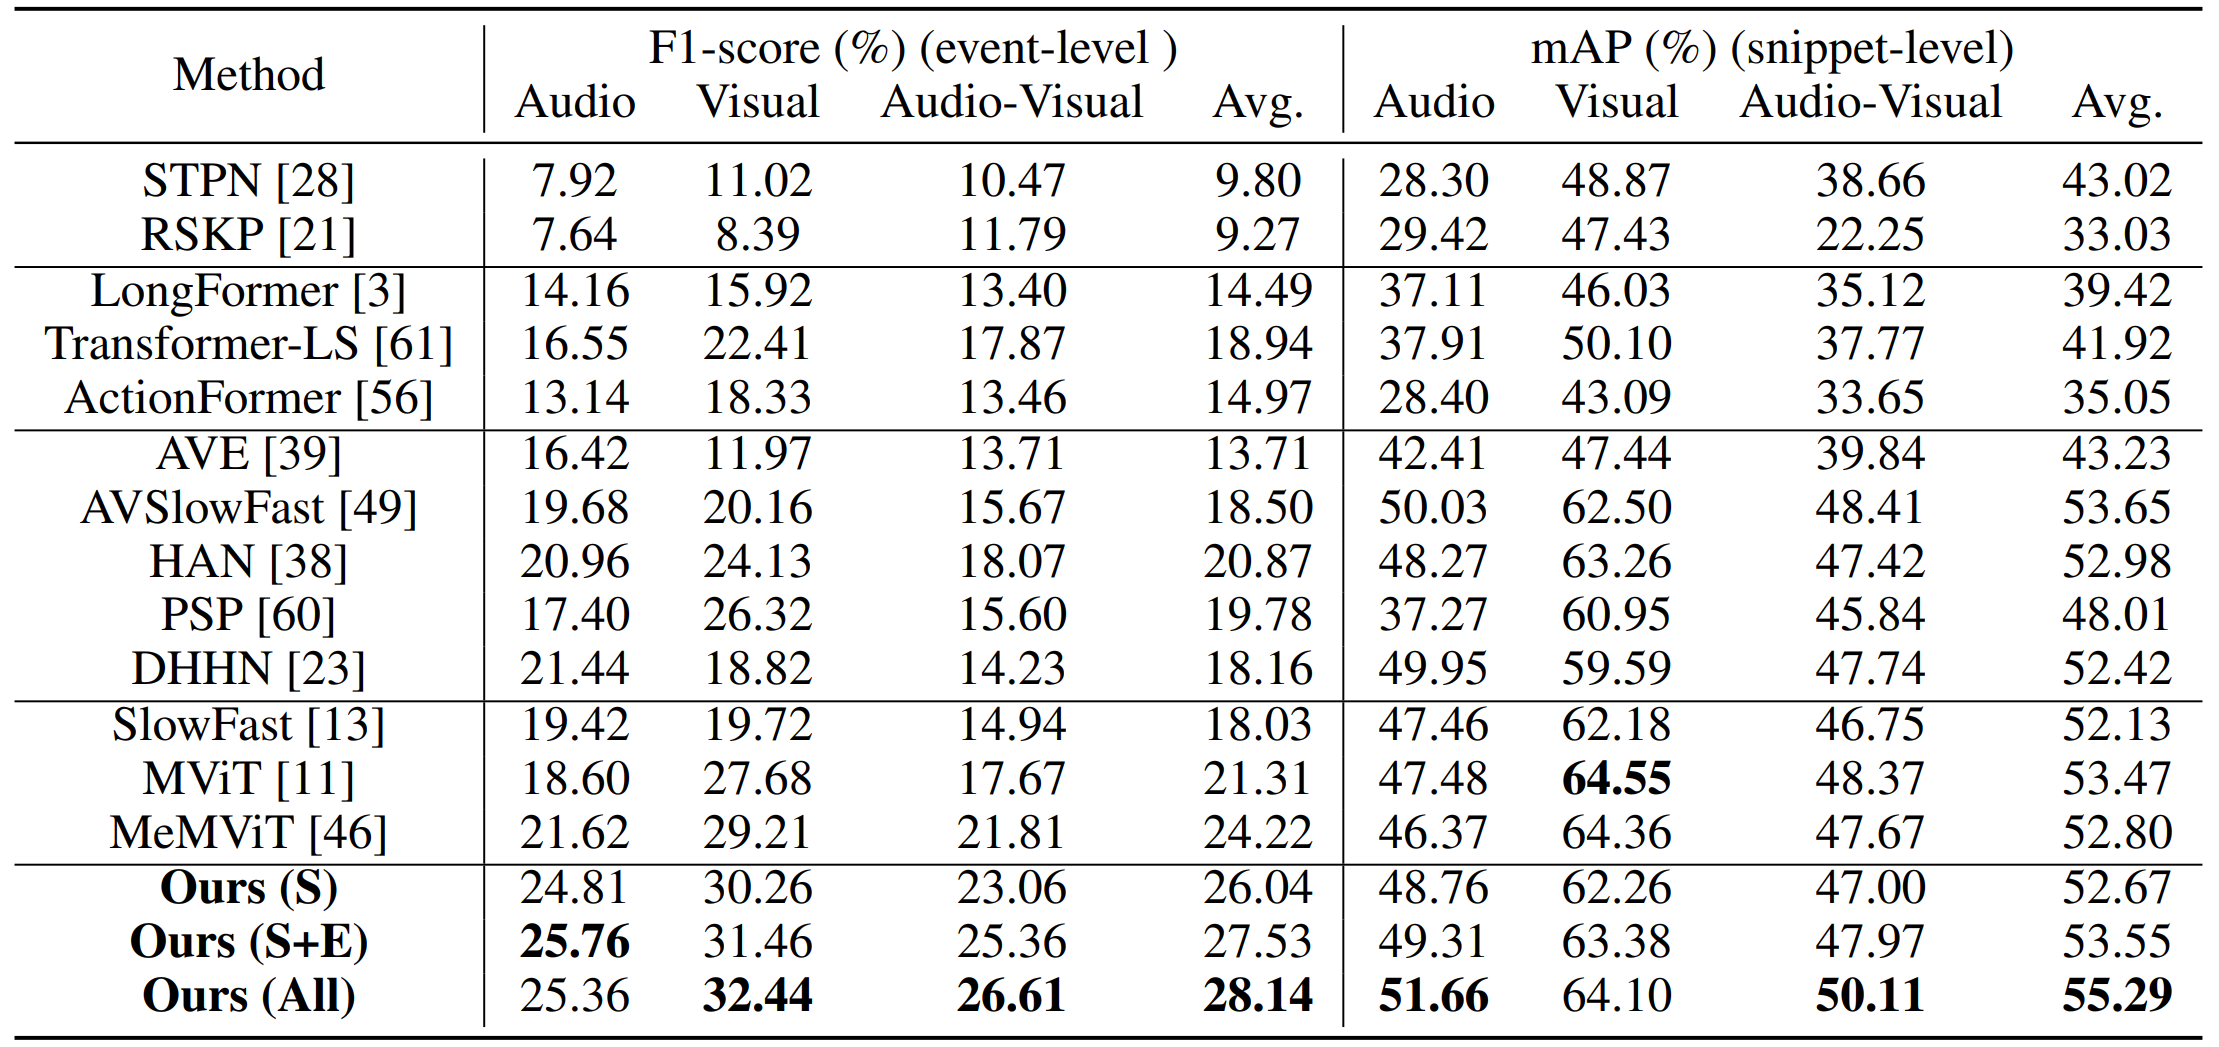
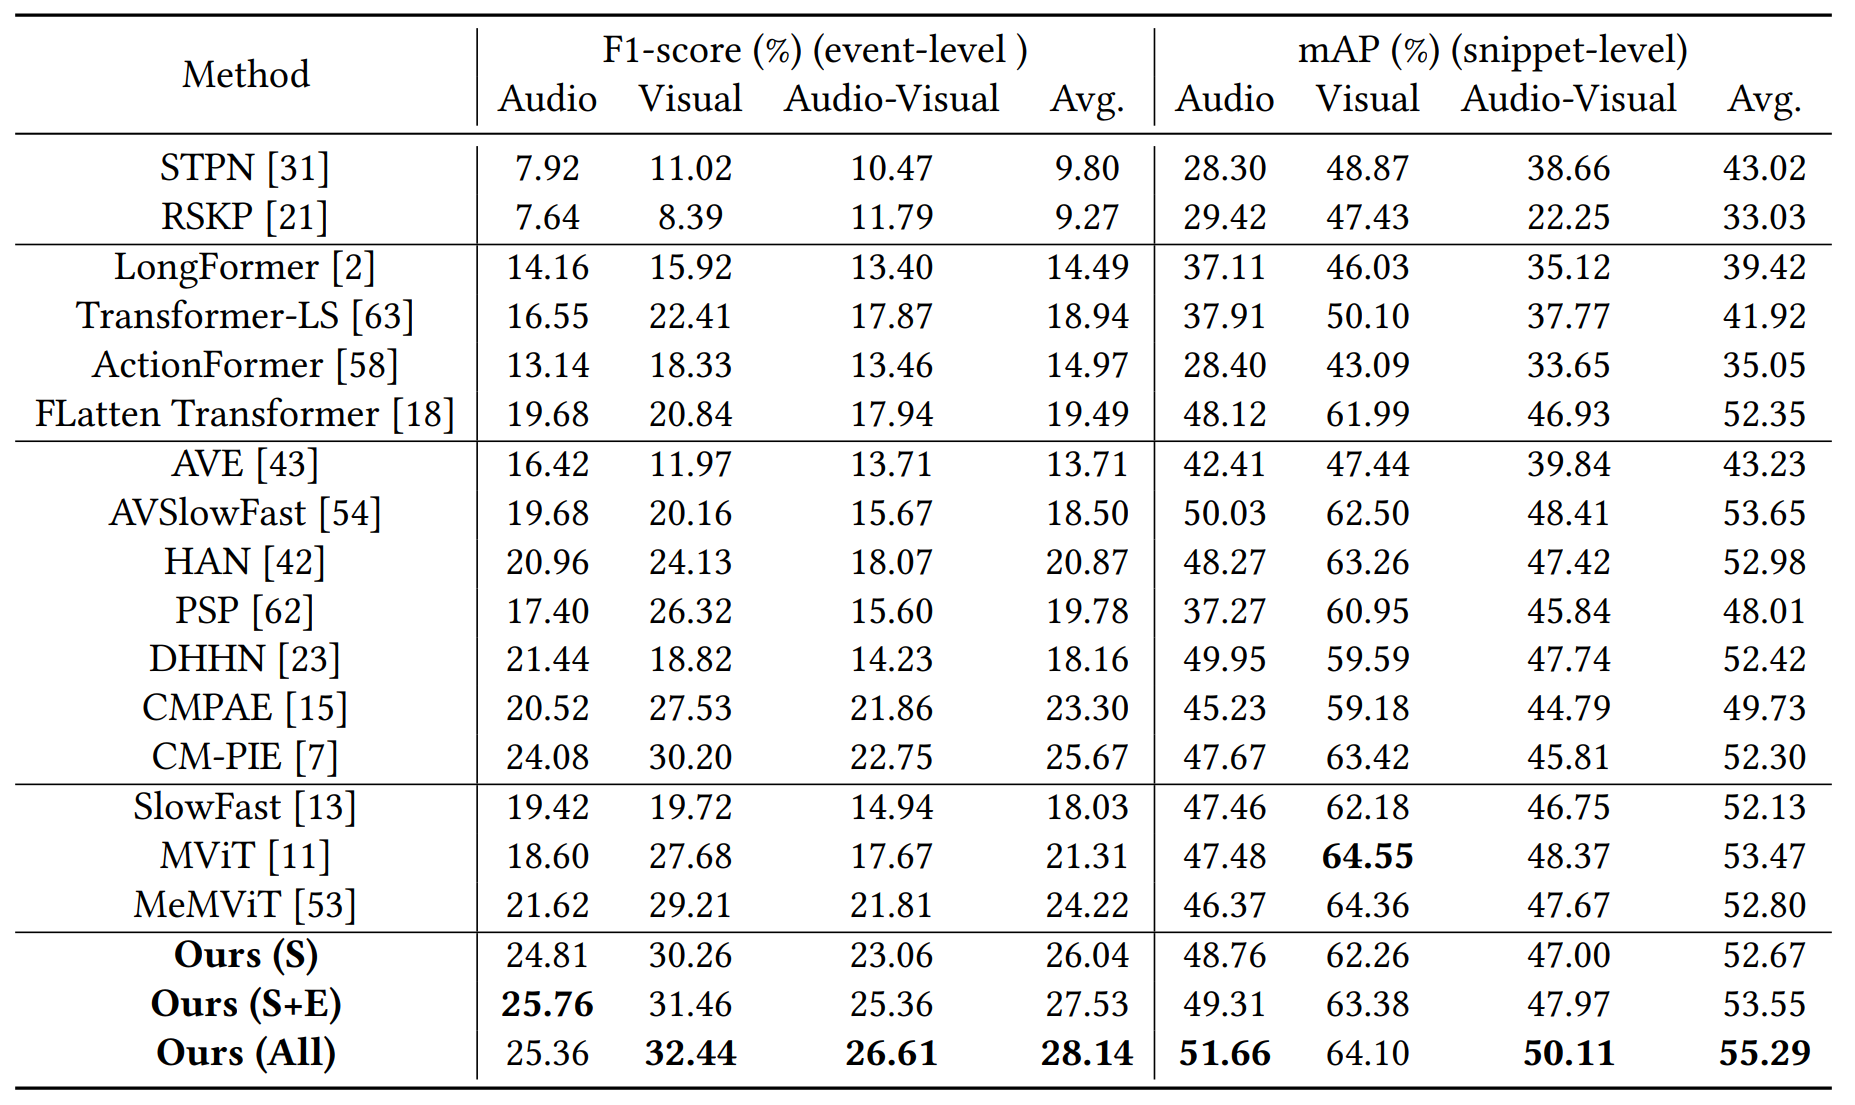
update main experiment table

Changed region(s): [[0.0, 0.0, 1.0, 1.0]]

diff --git a/index.html b/index.html
@@ -1397,25 +1397,17 @@ layout: default
     <div class="row">
       <div class="col-md-12">
         <p class="text-muted" style="text-align:left">
-          We propose an event-centric framework that contains three phases from snippet prediction, event extraction to event interaction.
-          Firstly, we propose a pyramid multimodal transformer model to capture the events with different temporal lengths, 
-          where the audio and visual snippet features are required to interact with each other within multi-scale temporal windows. 
-          Secondly, we propose to model the video as structured event graphs according to the snippet prediction, 
-          based on which we refine the event-aware snippet-level features and aggregate them into event features. 
-          At last, we study event relations by modeling the influence among multiple aggregated audio and visual events and then refining the event features. 
-          The three phases progressively achieve a comprehensive understanding of video content as well as event relations 
-          and are jointly optimized with video-level event labels in an end-to-end fashion. 
-          We want to highlight that the inherent relations among multiple events are essential for 
-          understanding the temporal structures and dynamic semantic of the long form audio-visual videos,
-          which has not been sufficiently considered in previous event localization works.
-          <b>More details are in the paper <a href="https://arxiv.org/abs/2306.09431">(Arxiv)</a></b>.<br/>  
-            <!-- <a href="{{ site.baseurl }}/static/files/LFAV.pdf">[Paper]</a> and <a href="{{ site.baseurl }}/static/files/LFAV-supp.pdf">[Supplementary]</a></b>.<br/>   -->
+          To validate the superiority of our proposed framework, we choose 16 related methods for comparison, 
+          including weakly supervised temporal action localization methods: STPN, RSKP; 
+          long sequence modeling methods: Longformer, Transformer-LS, ActionFormer, FLatten Transformer; 
+          audio-visual learning methods: AVE, AVSlowFast, HAN, PSP, DHHN, CMPAE, CM-PIE; 
+          video classification methods: SlowFast, MViT, and MeMViT. 
         </p> 
       </div>
     </div>
 
     <div class="col-md centered" style="padding:1rem;">
-      <img src="{{ site.baseurl }}/static/img/stats-figures/method.png" style="width: 100%" class="img-responsive"/> 
+      <img src="{{ site.baseurl }}/static/img/stats-figures/experiments/exp1.png" style="width: 100%" class="img-responsive"/> 
     </div>
 
     <div class="row">
